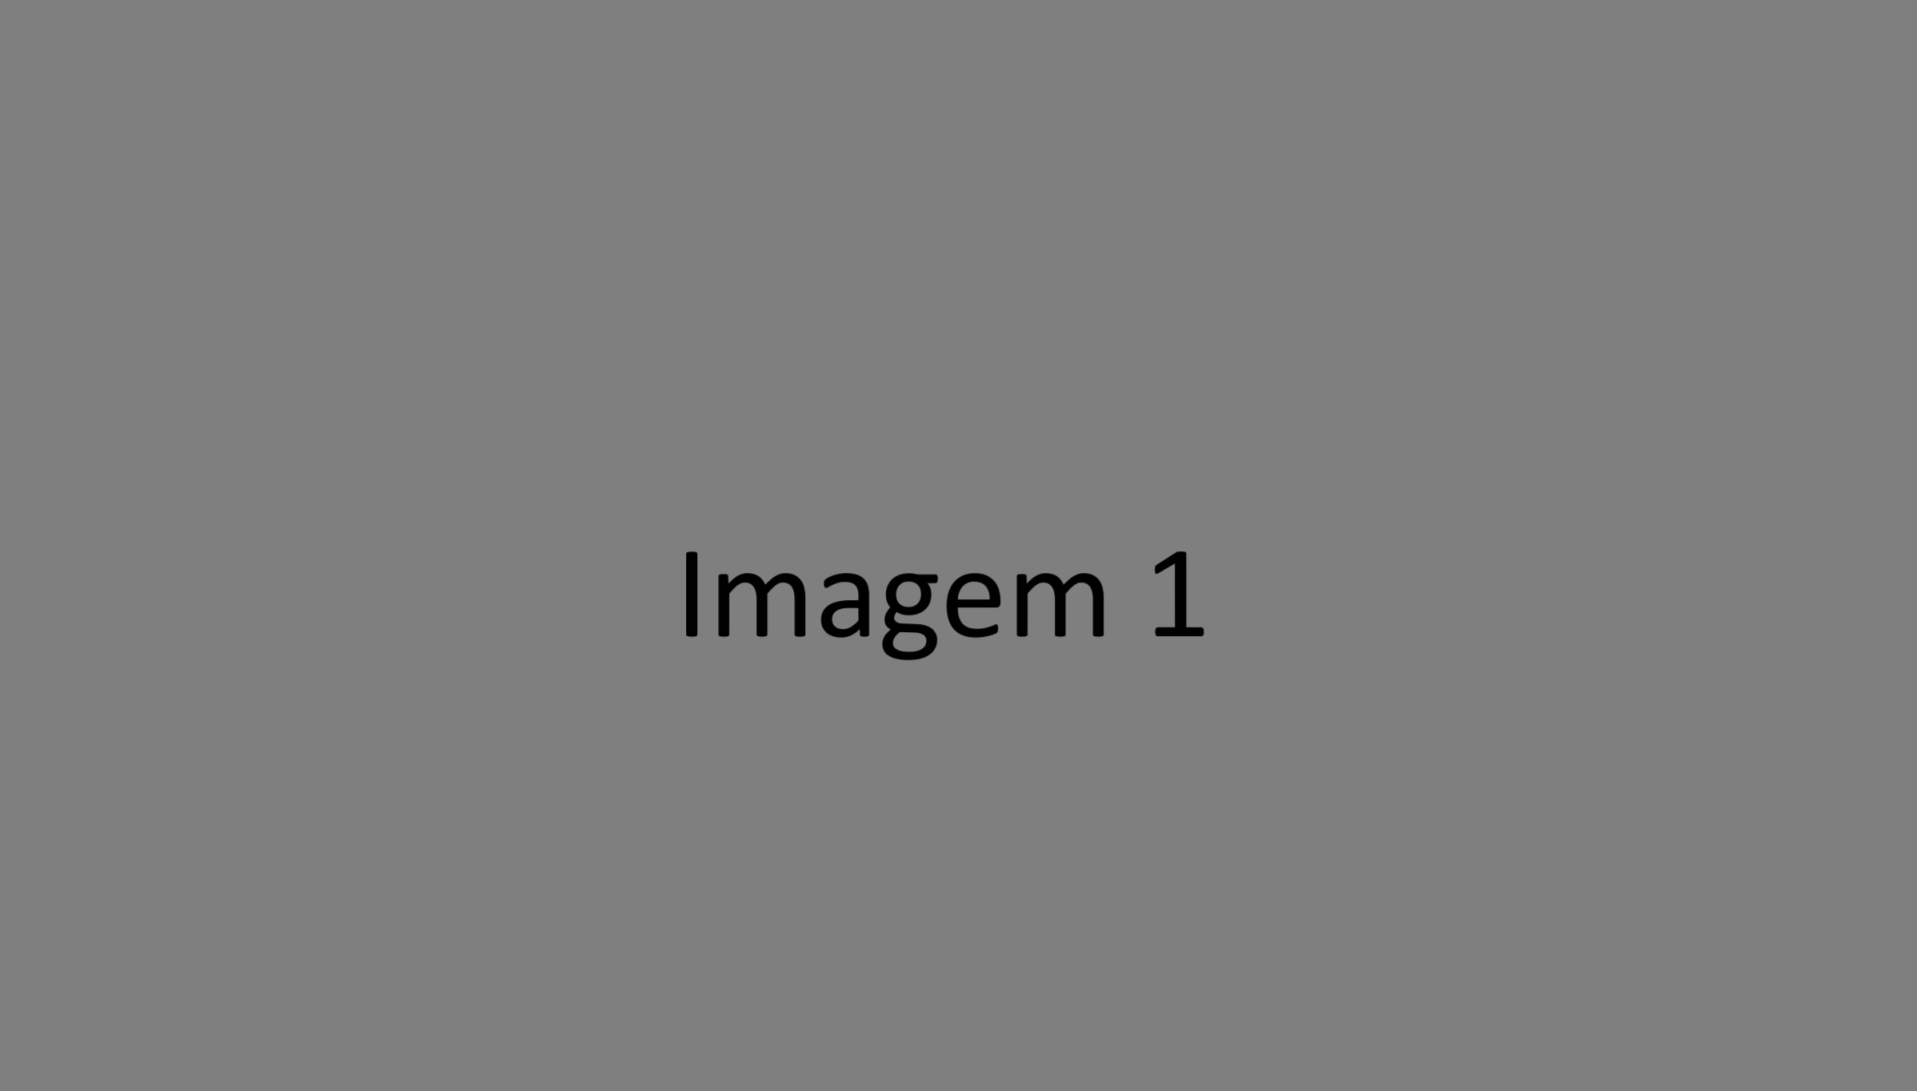
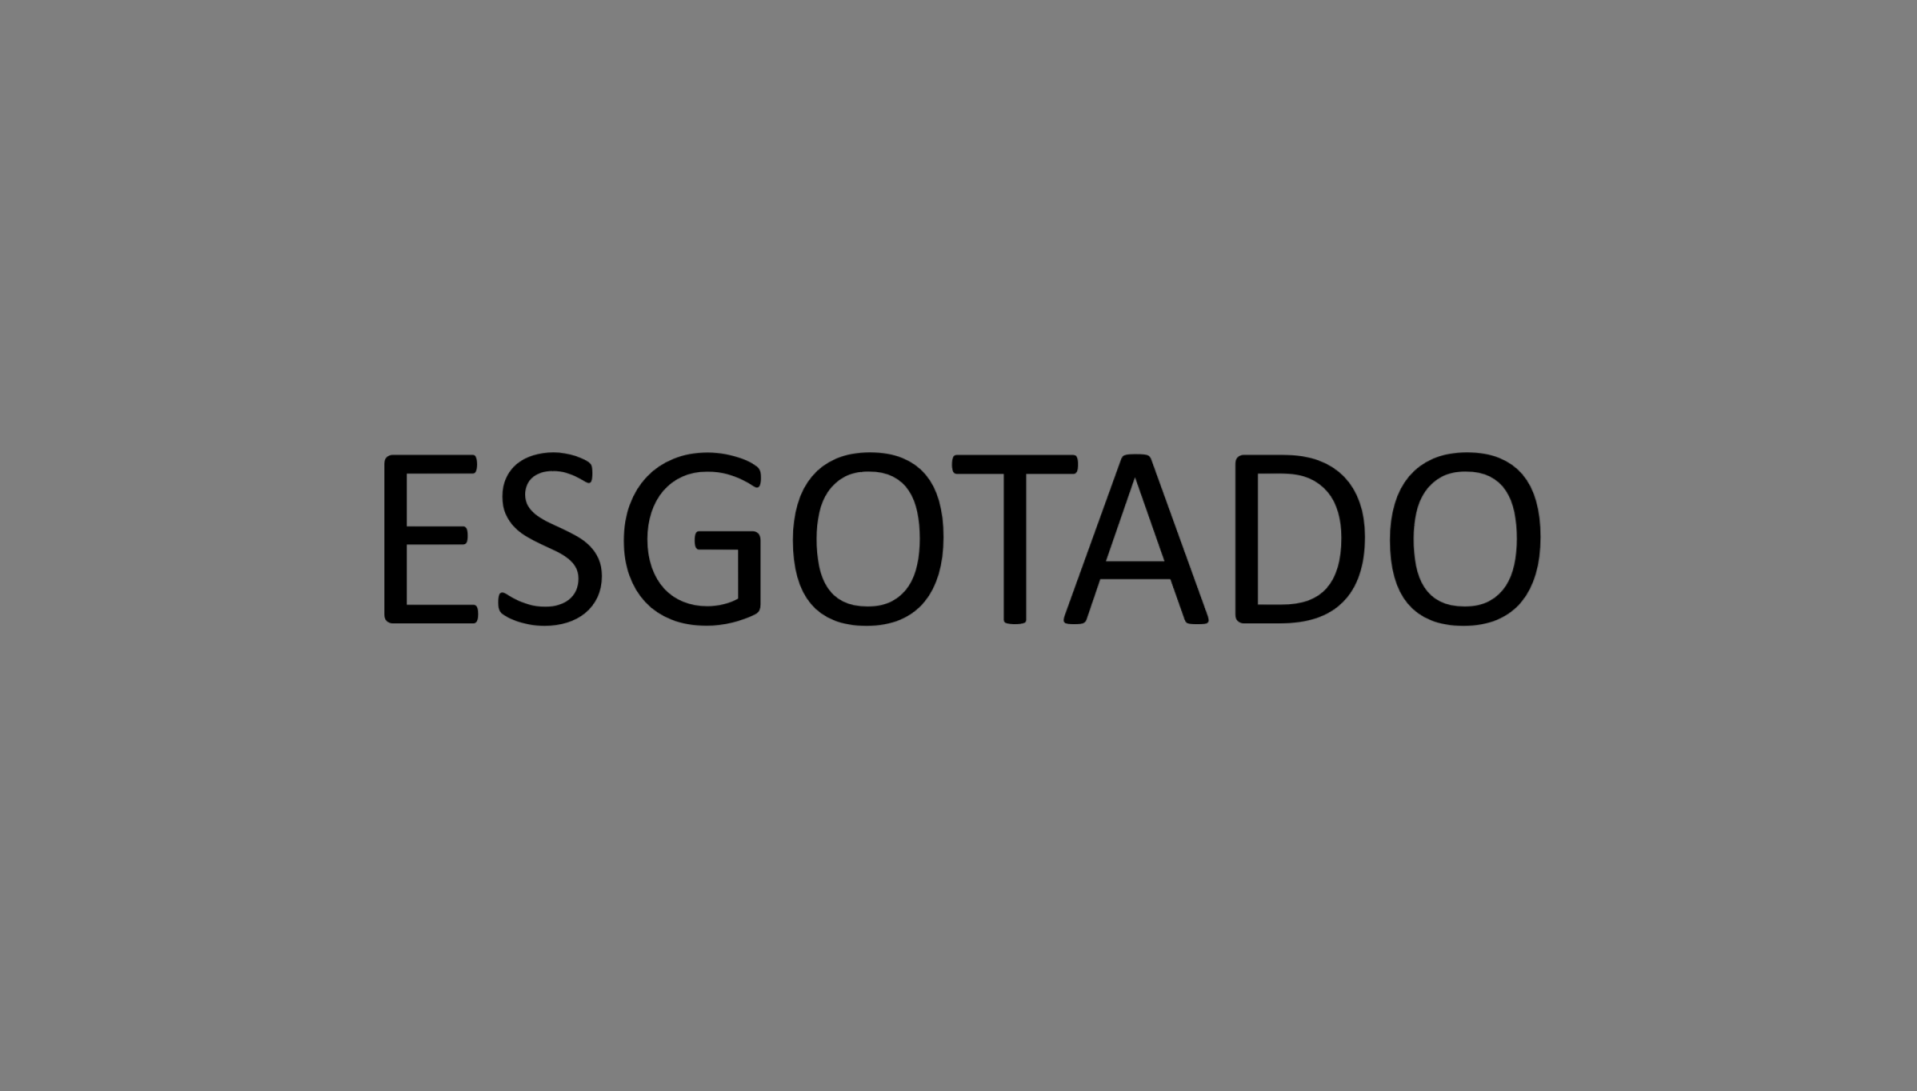
atualização

Changed region(s): [[0.1847, 0.4051, 0.831, 0.6233]]

diff --git a/js/dados.js b/js/dados.js
@@ -3,73 +3,11 @@ var MENU = {
         {
             "id": "cosmeticos-1",
             "img": "./img/cardapio/cosmeticos/cosmeticos (1).png",
-            "name": "cosméticos (1)",
-            "dsc": "Joe's KC Ribs, Brisket & Burnt Ends",
-            "price": 99.90
+            "name": "esgotado",
+            "dsc": "",
+            "price": 0.00
         },
-        {
-            "id": "cosmeticos-2",
-            "img": "./img/cardapio/cosmeticos/cosmeticos (2).png",
-            "name": "cosméticos (2)",
-            "dsc": "Carolina BBQ Oink Sampler",
-            "price": 99.90
-        },
-        {
-            "id": "cosmeticos-3",
-            "img": "./img/cardapio/cosmeticos/cosmeticos (3).png",
-            "name": "cosméticos (3)",
-            "dsc": "Texas Monthly's #1 BBQ Brisket",
-            "price": 99.90
-        },
-        {
-            "id": "cosmeticos-4",
-            "img": "./img/cardapio/cosmeticos/cosmeticos (4).png",
-            "name": "cosméticos (4)",
-            "dsc": "Whole Brisket + Texas Barbecue BBQ Sauce",
-            "price": 99.90
-        },
-        {
-            "id": "cosmeticos-5",
-            "img": "./img/cardapio/cosmeticos/cosmeticos (5).png",
-            "name": "cosméticos (5)",
-            "dsc": "Whole Texas Smoked Brisket",
-            "price": 99.90
-        },
-        {
-            "id": "cosmeticos-6",
-            "img": "./img/cardapio/cosmeticos/cosmeticos (6).png",
-            "name": "cosméticos (6)",
-            "dsc": "Mini Trinity BBQ Combo - Brisket, Ribs & Links",
-            "price": 99.90
-        },
-        {
-            "id": "cosmeticos-7",
-            "img": "./img/cardapio/cosmeticos/cosmeticos (7).png",
-            "name": "cosméticos (7)",
-            "dsc": "Blue Smoke Baby Back Ribs + Backyard Barbecue Chicken Combo",
-            "price": 99.90
-        },
-        {
-            "id": "cosmeticos-8",
-            "img": "./img/cardapio/cosmeticos/cosmeticos (8).png",
-            "name": "cosméticos (8)",
-            "dsc": "BBQ Meat Lovers Special for 10",
-            "price": 99.90
-        },
-        {
-            "id": "cosmeticos-9",
-            "img": "./img/cardapio/cosmeticos/cosmeticos (9).png",
-            "name": "cosméticos (9)",
-            "dsc": "The Big Ugly BBQ Dinner for 6",
-            "price": 99.90
-        },
-        {
-            "id": "cosmeticos-10",
-            "img": "./img/cardapio/cosmeticos/cosmeticos (10).png",
-            "name": "cosméticos (10)",
-            "dsc": "Mighty Quinn's BBQ Sampler Pack",
-            "price": 99.90
-        }
+        
         
     ],
     "lingeries": [
@@ -177,291 +115,43 @@ var MENU = {
         {
             "id": "proteses-1",
             "img": "./img/cardapio/proteses/proteses (1).png",
-            "name": "proteses (1)",
-            "dsc": "German Chocolate Killer Brownie®",
-            "price": 50
+            "name": "esgotado",
+            "dsc": "",
+            "price": 0.00
         },
-        {
-            "id": "proteses-2",
-            "img": "./img/cardapio/proteses/proteses (2).png",
-            "name": "proteses (2)",
-            "dsc": "descrição",
-            "price": 50
-        },
-        {
-            "id": "proteses-3",
-            "img": "./img/cardapio/proteses/proteses (3).png",
-            "name": "proteses (3)",
-            "dsc": "Original Cannoli Pie",
-            "price": 50
-        },
-        {
-            "id": "proteses-4",
-            "img": "./img/cardapio/proteses/proteses (4).png",
-            "name": "proteses (4)",
-            "dsc": "Sea-Salted Caramel Swirl Cheesecake",
-            "price": 50
-        },
-        {
-            "id": "proteses-5",
-            "img": "./img/cardapio/proteses/proteses (5).png",
-            "name": "proteses (5)",
-            "dsc": "Brooklyn Blackout Cookie + Brownie Combo Pack - 2 Tins",
-            "price": 50
-        },
-        {
-            "id": "proteses-6",
-            "img": "./img/cardapio/proteses/proteses (6).png",
-            "name": "proteses (6)",
-            "dsc": "Best Seller Cupcake Dozen",
-            "price": 50
-        },
-        {
-            "id": "proteses-7",
-            "img": "./img/cardapio/proteses/proteses (7).png",
-            "name": "proteses (7)",
-            "dsc": "Choose Your Own Ice Cream Donuts - 6 Pack",
-            "price": 50
-        },
-        {
-            "id": "proteses-8",
-            "img": "./img/cardapio/proteses/proteses (8).png",
-            "name": "proteses (8)",
-            "dsc": "Jewish Classics Dessert Pack",
-            "price": 50
-        },
-        {
-            "id": "proteses-9",
-            "img": "./img/cardapio/proteses/proteses (9).png",
-            "name": "proteses (9)",
-            "dsc": "Dessert Bar Care Package",
-            "price": 50
-        },
-        {
-            "id": "proteses-10",
-            "img": "./img/cardapio/proteses/proteses (10).png",
-            "name": "proteses (10)",
-            "dsc": "Donut Cookies - 12 Pack",
-            "price": 50
-        }
+        
       
     ],
     "vibradores": [
         {
             "id": "vibradores-1",
             "img": "./img/cardapio/vibradores/vibradores (1).png",
-            "name": "vibradores (1)",
-            "dsc": "Hong Kong Boba Tea Kit for 6",
-            "price": 60
+            "name": "esgotado",
+            "dsc": "",
+            "price": 0.00
         },
-        {
-            "id": "vibradores-2",
-            "img": "./img/cardapio/vibradores/vibradores (2).png",
-            "name": "vibradores (2)",
-            "dsc": "Guy's Caliente Margaritas for 12",
-            "price": 60
-        },
-        {
-            "id": "vibradores-3",
-            "img": "./img/cardapio/vibradores/vibradores (3).png",
-            "name": "vibradores (3)",
-            "dsc": "Woodford Reserve Mint Julep Syrup",
-            "price": 60
-        },
-        {
-            "id": "vibradores-4",
-            "img": "./img/cardapio/vibradores/vibradores (4).png",
-            "name": "vibradores (4)",
-            "dsc": "New Orleans Hurricane Mix",
-            "price": 60
-        },
-        {
-            "id": "vibradores-5",
-            "img": "./img/cardapio/vibradores/vibradores (5).png",
-            "name": "vibradores (5)",
-            "dsc": "Margarita Mix",
-            "price": 60
-        },
-        {
-            "id": "vibradores-6",
-            "img": "./img/cardapio/vibradores/vibradores (6).png",
-            "name": "vibradores (6)",
-            "dsc": "Woodford Reserve Mint Julep Syrup - 2 Pack",
-            "price": 60
-        },
-        {
-            "id": "vibradores-7",
-            "img": "./img/cardapio/vibradores/vibradores (7).png",
-            "name": "vibradores (7)",
-            "dsc": "Unicorn Parade Milkshake Kit for 8",
-            "price": 60
-        },
-        {
-            "id": "vibradores-8",
-            "img": "./img/cardapio/vibradores/vibradores (8).png",
-            "name": "vibradores (8)",
-            "dsc": "Chickpea Chiller Kit for 6",
-            "price": 60
-        },
-        {
-            "id": "vibradores-9",
-            "img": "./img/cardapio/vibradores/vibradores (9).png",
-            "name": "vibradores (9)",
-            "dsc": "Old Honey Barn Mint Julep Mixer - 200ml Flask",
-            "price": 60
-        },
-        {
-            "id": "vibradores-10",
-            "img": "./img/cardapio/vibradores/vibradores (10).png",
-            "name": "vibradores (10)",
-            "dsc": "Kentucky Derby Mint Julep Gift Set",
-            "price": 60
-        }
+        
     ],
     "sado": [
         {
             "id": "sado-1",
             "img": "./img/cardapio/sado/sado (1).png",
-            "name": "sado (1)",
-            "dsc": "Hong Kong Boba Tea Kit for 6",
-            "price": 60
+            "name": "esgotado",
+            "dsc": "",
+            "price": 0.00
         },
-        {
-            "id": "sado-2",
-            "img": "./img/cardapio/sado/sado (2).png",
-            "name": "sado (2)",
-            "dsc": "Guy's Caliente Margaritas for 12",
-            "price": 60
-        },
-        {
-            "id": "sado-3",
-            "img": "./img/cardapio/sado/sado (3).png",
-            "name": "sado (3)",
-            "dsc": "Woodford Reserve Mint Julep Syrup",
-            "price": 60
-        },
-        {
-            "id": "sado-4",
-            "img": "./img/cardapio/sado/sado (4).png",
-            "name": "sado (4)",
-            "dsc": "New Orleans Hurricane Mix",
-            "price": 60
-        },
-        {
-            "id": "sado-5",
-            "img": "./img/cardapio/sado/sado (5).png",
-            "name": "sado (5)",
-            "dsc": "Margarita Mix",
-            "price": 60
-        },
-        {
-            "id": "sado-6",
-            "img": "./img/cardapio/sado/sado (6).png",
-            "name": "sado (6)",
-            "dsc": "Woodford Reserve Mint Julep Syrup - 2 Pack",
-            "price": 60
-        },
-        {
-            "id": "sado-7",
-            "img": "./img/cardapio/sado/sado (7).png",
-            "name": "sado (7)",
-            "dsc": "Unicorn Parade Milkshake Kit for 8",
-            "price": 60
-        },
-        {
-            "id": "sado-8",
-            "img": "./img/cardapio/sado/sado (8).png",
-            "name": "sado (8)",
-            "dsc": "Chickpea Chiller Kit for 6",
-            "price": 60
-        },
-        {
-            "id": "sado-9",
-            "img": "./img/cardapio/sado/sado (9).png",
-            "name": "sado (9)",
-            "dsc": "Old Honey Barn Mint Julep Mixer - 200ml Flask",
-            "price": 60
-        },
-        {
-            "id": "sado-10",
-            "img": "./img/cardapio/sado/sado (10).png",
-            "name": "sado (10)",
-            "dsc": "Kentucky Derby Mint Julep Gift Set",
-            "price": 60
-        }
+        
        
     ],
     "acessorios": [
         {
             "id": "acessorios-1",
             "img": "./img/cardapio/acessorios/acessorios (1).png",
-            "name": "acessorios (1)",
-            "dsc": "Hong Kong Boba Tea Kit for 6",
-            "price": 60
+            "name": "esgotado",
+            "dsc": "",
+            "price": 0.00
         },
-        {
-            "id": "acessorios-2",
-            "img": "./img/cardapio/acessorios/acessorios (2).png",
-            "name": "acessorios (2)",
-            "dsc": "Guy's Caliente Margaritas for 12",
-            "price": 60
-        },
-        {
-            "id": "acessorios-3",
-            "img": "./img/cardapio/acessorios/acessorios (3).png",
-            "name": "acessorios (3)",
-            "dsc": "Woodford Reserve Mint Julep Syrup",
-            "price": 60
-        },
-        {
-            "id": "acessorios-4",
-            "img": "./img/cardapio/acessorios/acessorios (4).png",
-            "name": "acessorios (4)",
-            "dsc": "New Orleans Hurricane Mix",
-            "price": 60
-        },
-        {
-            "id": "acessorios-5",
-            "img": "./img/cardapio/acessorios/acessorios (5).png",
-            "name": "acessorios (5)",
-            "dsc": "Margarita Mix",
-            "price": 60
-        },
-        {
-            "id": "acessorios-6",
-            "img": "./img/cardapio/acessorios/acessorios (6).png",
-            "name": "acessorios (6)",
-            "dsc": "Woodford Reserve Mint Julep Syrup - 2 Pack",
-            "price": 60
-        },
-        {
-            "id": "acessorios-7",
-            "img": "./img/cardapio/acessorios/acessorios (7).png",
-            "name": "acessorios (7)",
-            "dsc": "Unicorn Parade Milkshake Kit for 8",
-            "price": 60
-        },
-        {
-            "id": "acessorios-8",
-            "img": "./img/cardapio/acessorios/acessorios (8).png",
-            "name": "acessorios (8)",
-            "dsc": "Chickpea Chiller Kit for 6",
-            "price": 60
-        },
-        {
-            "id": "acessorios-9",
-            "img": "./img/cardapio/acessorios/acessorios (9).png",
-            "name": "acessorios (9)",
-            "dsc": "Old Honey Barn Mint Julep Mixer - 200ml Flask",
-            "price": 60
-        },
-        {
-            "id": "acessorios-10",
-            "img": "./img/cardapio/acessorios/acessorios (10).png",
-            "name": "acessorios (10)",
-            "dsc": "Kentucky Derby Mint Julep Gift Set",
-            "price": 60
-        }
+       
        
     ]
 }
